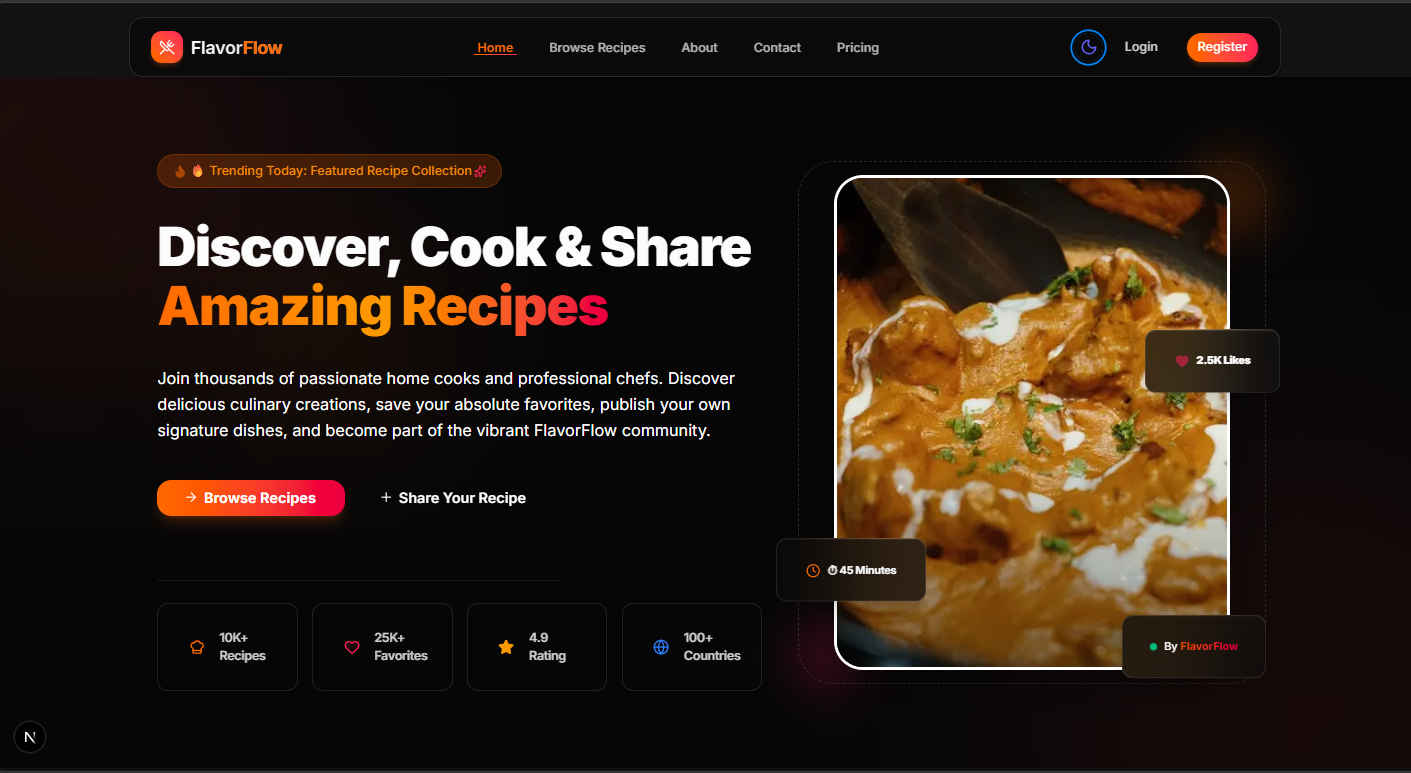
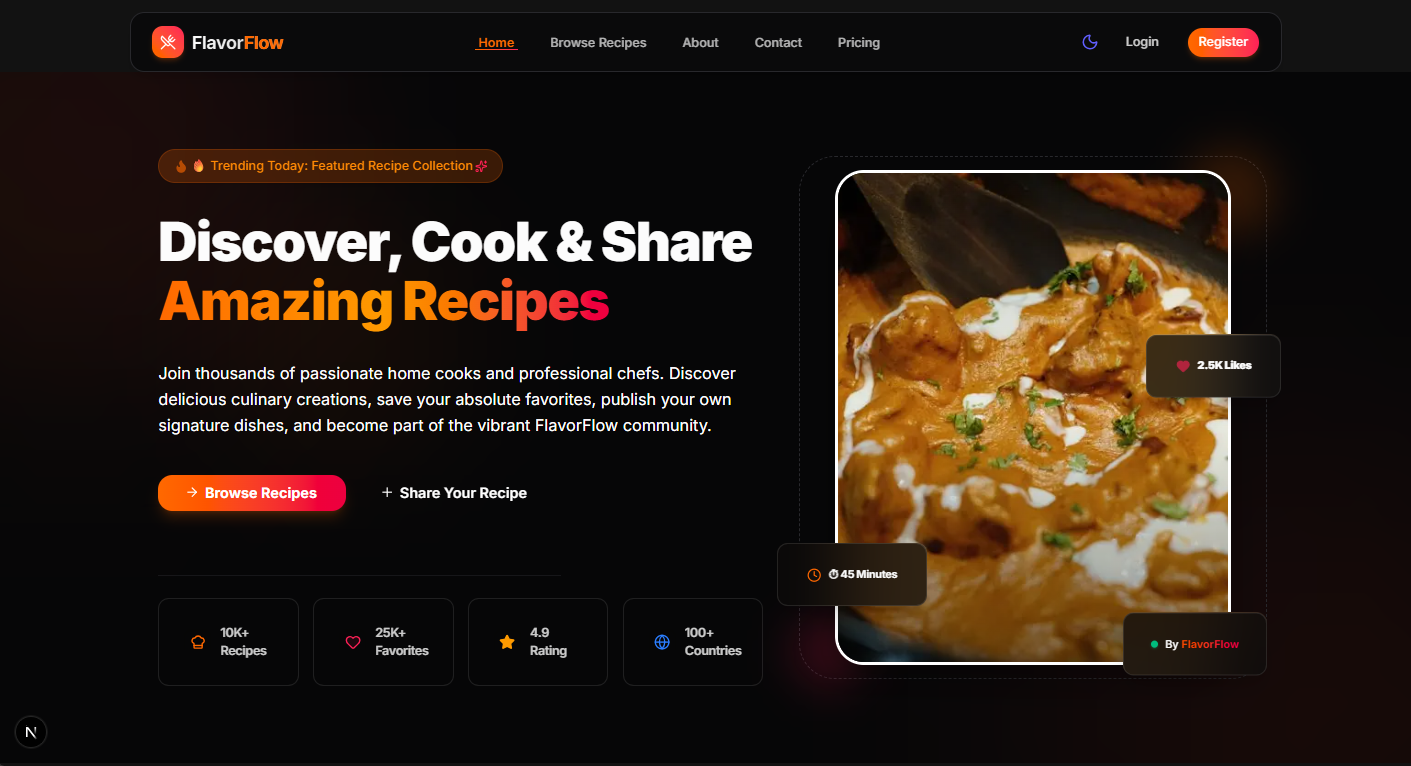
Remove hardcoded initialData and use state for transactions

diff --git a/src/app/dashboard/user/purchased/PurchasedRecipes.jsx b/src/app/dashboard/user/purchased/PurchasedRecipes.jsx
@@ -62,42 +62,42 @@ export default function MyPurchasedRecipes({ purchasesData }) {
     fetchPurchases();
   }, []);
 
-  const filteredPurchases = purchases.filter((item) => {
+  const filteredPurchases = purchases?.filter((item) => {
     const matchesSearch =
       searchQuery.trim() === "" ||
-      item.recipeName?.toLowerCase().includes(searchQuery.toLowerCase());
+      item?.recipeName?.toLowerCase().includes(searchQuery.toLowerCase());
 
     const statusValue = Array.from(selectedStatus)[0];
     const matchesStatus =
       !statusValue ||
       statusValue === "all" ||
-      item.paymentStatus?.toLowerCase() === statusValue.toLowerCase();
+      item?.paymentStatus?.toLowerCase() === statusValue?.toLowerCase();
 
     const methodValue = Array.from(selectedMethod)[0];
     const matchesMethod =
       !methodValue ||
       methodValue === "all" ||
-      (item.paymentMethod || "card").toLowerCase() ===
+      (item?.paymentMethod || "card").toLowerCase() ===
         methodValue.toLowerCase();
 
     return matchesSearch && matchesStatus && matchesMethod;
   });
 
   // Dynamic Statistics Calculations from Hardcoded Data
-  const totalPurchased = filteredPurchases.length;
+  const totalPurchased = filteredPurchases?.length;
 
-  const totalSpent = filteredPurchases.reduce((sum, item) => {
-    if (item.paymentStatus === "paid") return sum + (item.amount || 0);
+  const totalSpent = filteredPurchases?.reduce((sum, item) => {
+    if (item?.paymentStatus === "paid") return sum + (item?.amount || 0);
     return sum;
   }, 0);
 
-  const successfulPayments = filteredPurchases.filter(
-    (item) => item.paymentStatus === "paid",
+  const successfulPayments = filteredPurchases?.filter(
+    (item) => item?.paymentStatus === "paid",
   ).length;
 
   const getPrimaryPaymentMethod = () => {
-    if (filteredPurchases.length === 0) return "None";
-    const methods = filteredPurchases.map((p) => p.paymentMethod || "card");
+    if (filteredPurchases?.length === 0) return "None";
+    const methods = filteredPurchases?.map((p) => p?.paymentMethod || "card");
     const counts = methods.reduce((acc, m) => {
       acc[m] = (acc[m] || 0) + 1;
       return acc;
@@ -269,7 +269,7 @@ export default function MyPurchasedRecipes({ purchasesData }) {
             className=" w-full focus:border-none focus:ring-0 shadow-inner"
             placeholder="Search by recipe name..."
             value={searchQuery}
-            onChange={(e) => setSearchQuery(e.target.value)}
+            onChange={(e) => setSearchQuery(e?.target?.value)}
           />
         </div>
 
@@ -281,7 +281,7 @@ export default function MyPurchasedRecipes({ purchasesData }) {
               radius="2xl"
               className="capitalize bg-white dark:bg-zinc-800 border border-zinc-200 dark:border-zinc-700 shadow-sm p-1 rounded-md"
             >
-              Status: {Array.from(selectedStatus)[0]}
+              Status: {Array?.from(selectedStatus)[0]}
             </Dropdown.Trigger>
 
             <Dropdown.Popover>
@@ -319,7 +319,7 @@ export default function MyPurchasedRecipes({ purchasesData }) {
               radius="2xl"
               className="capitalize bg-white dark:bg-zinc-800 border border-zinc-200 dark:border-zinc-700 shadow-sm p-1 rounded-md"
             >
-              Method: {Array.from(selectedMethod)[0]}
+              Method: {Array?.from(selectedMethod)[0]}
             </Dropdown.Trigger>
 
             <Dropdown.Popover>
@@ -398,7 +398,7 @@ export default function MyPurchasedRecipes({ purchasesData }) {
             Try Again
           </Button>
         </div>
-      : filteredPurchases.length === 0 ?
+      : filteredPurchases?.length === 0 ?
         <motion.div
           initial={{ opacity: 0, scale: 0.95 }}
           animate={{ opacity: 1, scale: 1 }}
@@ -429,9 +429,9 @@ export default function MyPurchasedRecipes({ purchasesData }) {
           animate="visible"
           className="grid grid-cols-1 sm:grid-cols-2 lg:grid-cols-3 gap-6"
         >
-          {filteredPurchases.map((item, index) => (
+          {filteredPurchases?.map((item, index) => (
             <motion.div
-              key={`${item.transactionId}-${index}`}
+              key={`${item?.transactionId}-${index}`}
               variants={itemVariants}
               whileHover={{ y: -6, transition: { duration: 0.2 } }}
               className="group"
@@ -441,13 +441,12 @@ export default function MyPurchasedRecipes({ purchasesData }) {
                 <CardHeader className="p-0 relative overflow-hidden aspect-video">
                   <Image
                     fill
-                    alt={item.recipeName}
+                    alt={item?.recipeName}
                     className="object-cover w-full h-full transform group-hover:scale-105 transition-transform duration-500"
                     src={
-                      item.recipeImage ||
+                      item?.recipeImage ||
                       "https://images.unsplash.com/photo-1495521821757-a1efb6729352"
                     }
-                    fill
                     radius="none"
                   />
                   <div className="absolute inset-0 bg-linear-to-b from-black/40 via-transparent to-transparent z-10 opacity-60" />
@@ -468,7 +467,7 @@ export default function MyPurchasedRecipes({ purchasesData }) {
                       className="bg-black/60 backdrop-blur-md text-white font-bold border border-white/10"
                       size="sm"
                     >
-                      ${item.amount}
+                      ${item?.amount}
                     </Chip>
                   </div>
                 </CardHeader>
@@ -477,7 +476,7 @@ export default function MyPurchasedRecipes({ purchasesData }) {
                 <CardContent className="p-5 flex flex-col justify-between gap-4">
                   <div className="space-y-2">
                     <h3 className="text-lg font-bold text-zinc-800 dark:text-zinc-100 line-clamp-1 group-hover:text-orange-500 transition-colors">
-                      {item.recipeName}
+                      {item?.recipeName}
                     </h3>
 
                     <div className="grid grid-cols-2 gap-y-2 gap-x-1 text-xs text-zinc-500 dark:text-zinc-400 pt-1">
@@ -486,12 +485,12 @@ export default function MyPurchasedRecipes({ purchasesData }) {
                           Method:
                         </span>
                         <span className="capitalize bg-zinc-100 dark:bg-zinc-800 px-1.5 py-0.5 rounded-md font-semibold text-zinc-600 dark:text-zinc-300">
-                          {item.paymentMethod || "card"}
+                          {item?.paymentMethod || "card"}
                         </span>
                       </div>
 
                       <div className="flex items-center gap-1.5 justify-end">
-                        {renderStatusChip(item.paymentStatus)}
+                        {renderStatusChip(item?.paymentStatus)}
                       </div>
                     </div>
                   </div>
@@ -503,25 +502,25 @@ export default function MyPurchasedRecipes({ purchasesData }) {
                     <div className="flex items-center justify-between">
                       <span>Transaction ID:</span>
                       <Tooltip
-                        content={item.transactionId}
+                        content={item?.transactionId}
                         placement="top"
                         closeDelay={150}
                       >
                         <span className="font-mono text-zinc-600 dark:text-zinc-300 cursor-help underline decoration-dotted decoration-zinc-400">
-                          {item.transactionId ?
-                            `${item.transactionId.slice(0, 12)}...${item.transactionId.slice(-6)}`
+                          {item?.transactionId ?
+                            `${item?.transactionId.slice(0, 12)}...${item?.transactionId.slice(-6)}`
                           : "N/A"}
                         </span>
                       </Tooltip>
                     </div>
 
-                    {item.purchaseDate && (
+                    {item?.purchaseDate && (
                       <div className="flex items-center justify-between pt-1">
                         <span className="flex items-center gap-1">
                           <FiCalendar size={12} /> Purchased:
                         </span>
                         <span className="font-medium text-zinc-600 dark:text-zinc-300">
-                          {item.purchaseDate}
+                          {item?.purchaseDate}
                         </span>
                       </div>
                     )}
@@ -533,7 +532,7 @@ export default function MyPurchasedRecipes({ purchasesData }) {
                   <Button
                     className="w-full font-bold text-zinc-700 dark:text-zinc-200 bg-zinc-100 dark:bg-zinc-800/80 hover:bg-linear-to-r hover:from-orange-500 hover:to-red-500 hover:text-white transition-all duration-300 shadow-sm"
                     radius="2xl"
-                    onClick={() => router.push(`/recipes/${item.recipeId}`)}
+                    onClick={() => router.push(`/recipes/${item?.recipeId}`)}
                   >
                     <FiArrowRight className="group-hover:translate-x-1 transition-transform" />
                     View Details

diff --git a/src/app/dashboard/admin/transactions/TransactionsClient.jsx b/src/app/dashboard/admin/transactions/TransactionsClient.jsx
@@ -199,35 +199,9 @@ const Skeleton = ({ className = "" }) => (
   />
 );
 
-export default function TransactionsClient() {
-  const initialData = [
-    {
-      _id: "6a408964a548e70c3fe0215f",
-      userId: "6a3fff3afa7e189657a0f6f7",
-      userEmail: "sdzx2212@gmail.com",
-      amount: 9.99,
-      transactionId:
-        "cs_test_a1oEyWk1zRFF1LXaBeCDYve0xqWFpJUAmulp7wpHswRZfiECTGSe39xl4m",
-      paymentStatus: "Paid",
-      planId: "premium",
-      createdAt: "2026-06-28T02:39:32.377Z",
-    },
-    {
-      transactionId:
-        "cs_test_a1rzfDY64b5mD06G0Mf1IRqnsYqq5KNIZ3MpiKIRltrGQLZxmGFxDW0edf",
-      amount: 15,
-      paymentStatus: "paid",
-      recipeId: "6a458843f78cc9d1d3b69bc7",
-      userId: "6a435334353053a480f84b09",
-      recipeName: "Strawberry Cheesecake",
-      userEmail: "riadswebdev@gmail.com",
-      paymentMethod: "card",
-      mode: "payment",
-      createdAt: "2026-06-28T02:39:32.377Z",
-    },
-  ];
-
+export default function TransactionsClient({ initialData }) {
   const [transactions, setTransactions] = useState(initialData);
+
   const [loading, setLoading] = useState(true);
   const [searchQuery, setSearchQuery] = useState("");
   const [statusFilter, setStatusFilter] = useState("");

diff --git a/src/app/dashboard/user/purchased/page.jsx b/src/app/dashboard/user/purchased/page.jsx
@@ -12,7 +12,7 @@ const PurchasedRecipesPage = async () => {
   const purchasedRecipes = (await getTransactionsByUserId(user?.id)) || [];
   const hasPurchasedRecipes = purchasedRecipes?.data || purchasedRecipes;
 
-  return <MyPurchasedRecipes purchasedRecipes={hasPurchasedRecipes} />;
+  return <MyPurchasedRecipes purchasesData={hasPurchasedRecipes} />;
 };
 
 export default PurchasedRecipesPage;
